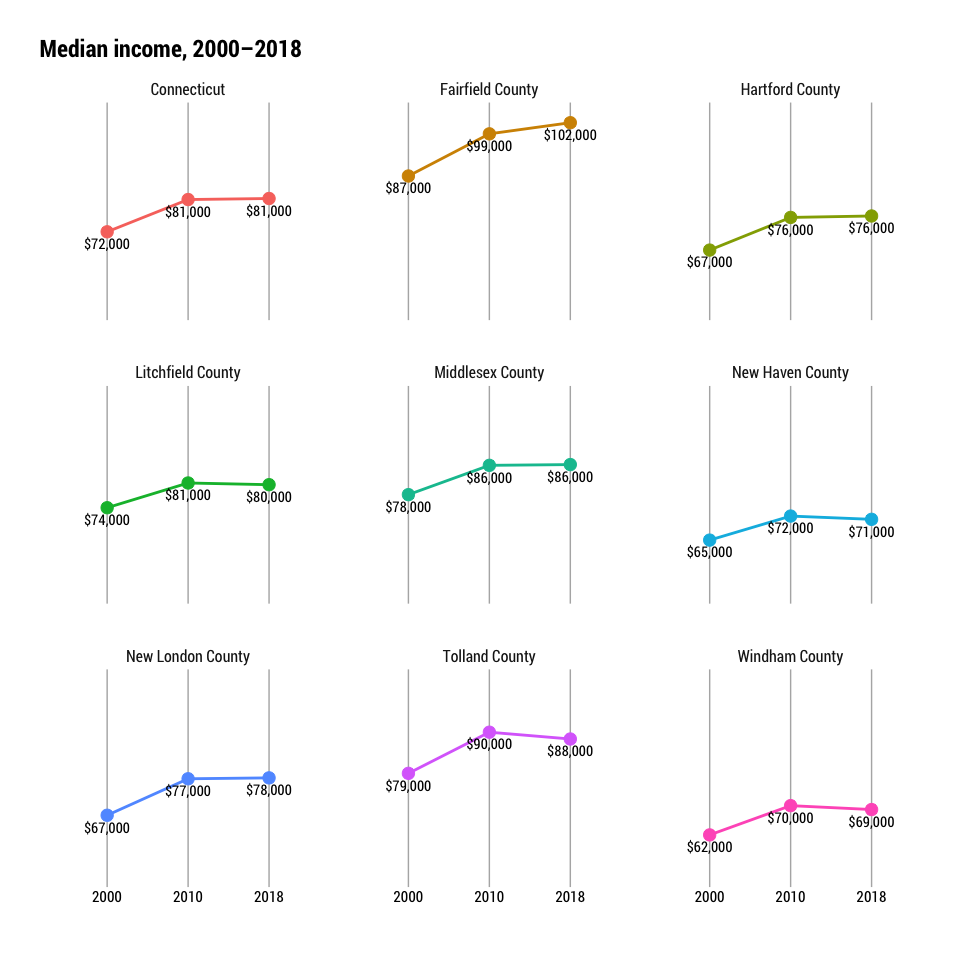
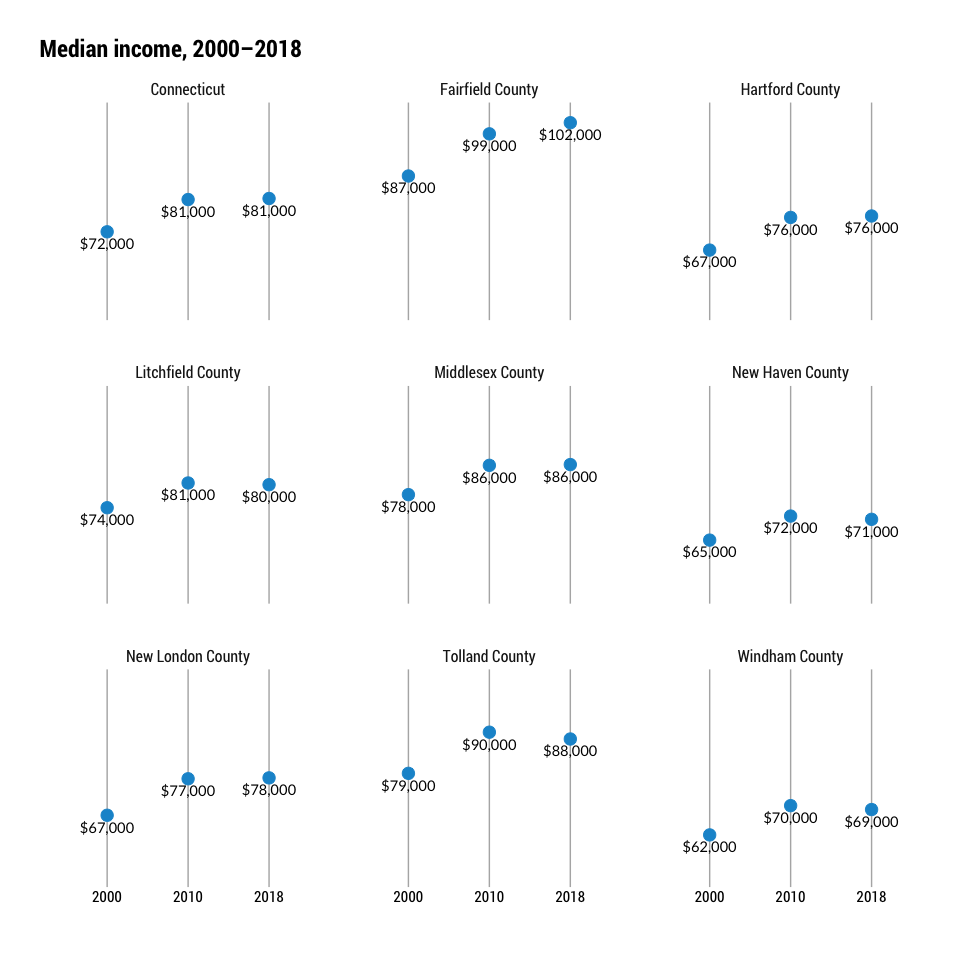
minc by tenure charts

diff --git a/notebooks/minc_by_tenure.md b/notebooks/minc_by_tenure.md
@@ -7,6 +7,13 @@ library(ipumsr)
 library(srvyr)
 ```
 
+``` r
+theme_set(hrbrthemes::theme_ipsum_rc(base_family = "Lato"))
+
+#urban colors
+pal <- c("#1696d2", "#fdbf11", "#d2d2d2", "#ec008b", "#55b748")
+```
+
 Two ways:
 
 Median income by county. Simple enough.
@@ -74,11 +81,11 @@ write_csv(minc, "../output_data/minc_by_county_2000_2018.csv")
 
 ``` r
 minc %>% 
-    ggplot(aes(year, minc, group = name)) +
+    ggplot(aes(year, minc)) +
     geom_vline(aes(xintercept = year), size = .5, color = "grey70") +
-    geom_point(aes(color = name), size = 4) +
-    geom_line(aes(color = name), size = 1) +
-    geom_text(aes(label = scales::dollar(minc, accuracy = 1e3), vjust = 1.6, family = "Roboto Condensed", nudge_y = -500)) +
+    geom_point(size = 4, color = pal[1]) +
+    geom_line(size = 1, color = pal[1]) +
+    geom_text(aes(label = scales::dollar(minc, accuracy = 1e3), vjust = 1.6, family = "Lato Regular", nudge_y = -500)) +
     #scale_y_continuous(expand = expansion(mult = c(.15, .15))) +
     scale_y_continuous(limits = c(50000, 105000)) +
     facet_wrap(facets = "name", scales = "free_y") +
@@ -757,28 +764,34 @@ write_csv(minc_tenure, "../output_data/minc_by_tenure_2000_2018.csv")
 
 ``` r
 minc_tenure %>% 
-    ggplot(aes(year, minc, group = ownershp2)) +
-    geom_vline(aes(xintercept = year), size = .5, color = "grey70") +
-    geom_point(aes(color = ownershp2), size = 4) +
-    geom_line(aes(color = ownershp2), size = 1) +
-    geom_text(aes(label = scales::dollar(minc, accuracy = 1e3), vjust = 1.6, family = "Roboto Condensed")) +
-    scale_y_continuous(expand = expansion(mult = c(.35, .25))) +
-    #scale_y_continuous(limits = c(0, 130000)) +
+    filter (year != 2010) %>% 
+    rename(Tenure = ownershp2) %>% 
+    ggplot(aes(year, minc, group = Tenure)) +
+    geom_col(aes(fill = Tenure), position = position_dodge(0), width = 1.5) +
+    geom_text(aes(label = scales::dollar(minc, accuracy = 1e3)), vjust = 1.6, family = "Lato Bold", size = 2.5, position = position_dodge(0)) +
+    scale_y_continuous(expand = expansion(mult = c(.05, 0))) +
     facet_wrap(facets = "name", scales = "free_y") +
-    hrbrthemes::theme_ipsum_rc() +
-    guides(color = guide_legend(title = "Tenure", override.aes = list(linetype = 0))) +
-    labs(title = "Median income by tenure and area, 2000–2018",
+  scale_fill_manual(values = c(pal[1:2])) +
+    scale_color_manual(values = c(pal[1:2])) +
+    labs(title = "Median Income by Homeownership, 2000 and 2018",
              x = "", y = "") +
     theme(plot.title.position = "plot",
                 axis.text.y = element_blank(),
+                legend.text = element_text(family = "Lato Regular", size = 8),
+                plot.title = element_text(family = "Lato Bold"),
                 panel.grid.major = element_blank(),
                 panel.grid.minor = element_blank(),
-                axis.text.x = element_text(colour = "black"),
-                strip.text.x = element_text(hjust = .5),
+                axis.text.x = element_text(colour = "black", size = 8, family = "Lato Regular"),
+                strip.text.x = element_text(hjust = .5, colour = "black", family = "Lato Regular"),
                 legend.position = "bottom")
 ```
 
 ![](minc_by_tenure_files/figure-gfm/unnamed-chunk-7-1.png)<!-- -->
+
+``` r
+ggsave(filename = "../output_data/corrected_charts/med_inc_tenure.png", dpi = 300, width = 6.5)
+ggsave(filename = "../output_data/corrected_charts/med_inc_tenure.svg", dpi = 300, width = 6.5)
+```
 
 ``` r
 minc_tenure %>% 
